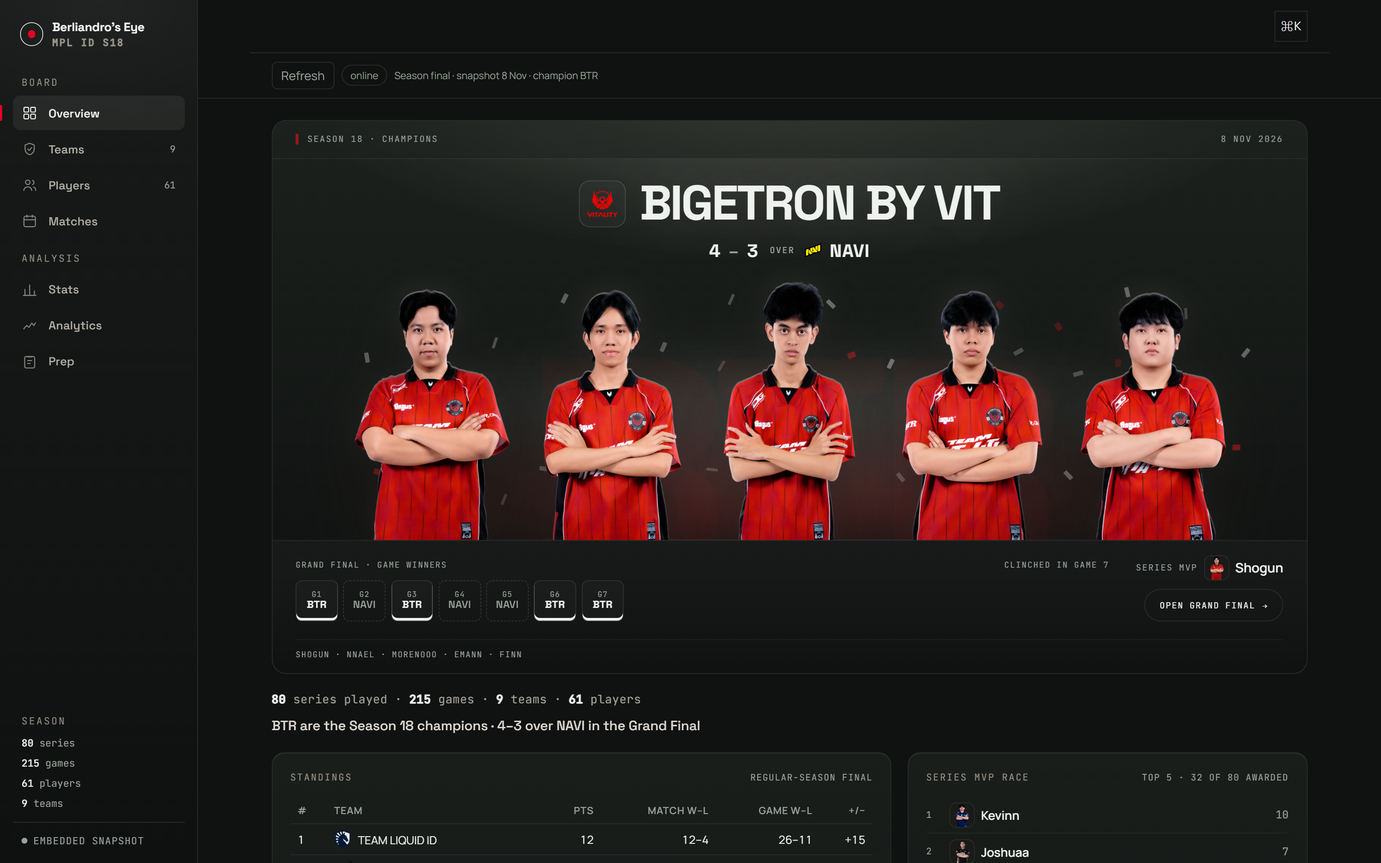
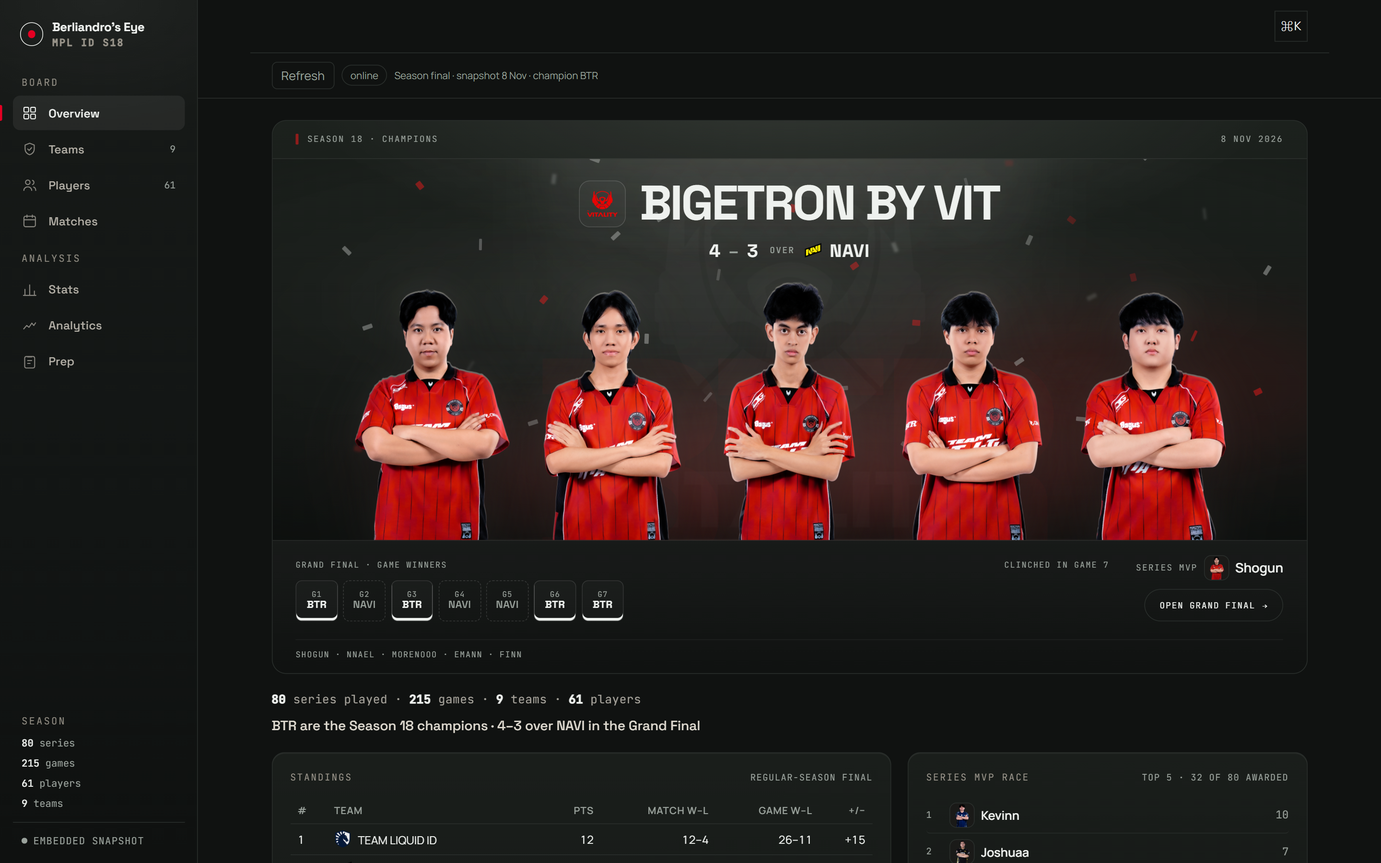
feat: give the champion plate a breathing arena
- Layered stage behind the five champions: crest watermark, centre beam,
  drifting haze, club-coloured floor pool and paper in two depths.
- Ambient motion: 12s squad breath, 14s beam, 10s pool, 16s watermark,
  24s haze, 9-16s paper. It pauses when the plate leaves the viewport and
  stops under prefers-reduced-motion; no flashing, no marquee.
- Stills and the share card capture with reduced motion so the gallery and
  OG image stay deterministic.
- DESIGN.md records the ambient exception; README names the lit stage.

Changed region(s): [[0.4688, 0.28, 0.6875, 0.4044]]

diff --git a/mpl_id_s18_dark.html b/mpl_id_s18_dark.html
@@ -548,7 +548,7 @@ body.pview main{padding-top:22px}
 .cp-stage{position:relative;padding:24px 26px 0;display:flex;flex-direction:column;align-items:center;overflow:hidden}
 .cp-stage::before{content:"";position:absolute;left:-12%;right:-12%;top:-34%;height:130%;background:radial-gradient(58% 58% at 50% 0%,rgba(255,250,242,.20),rgba(255,250,242,.06) 44%,transparent 72%);filter:blur(28px);pointer-events:none;z-index:0}
 .cp-word{position:absolute;left:50%;bottom:-.12em;transform:translateX(-50%);font-family:var(--font-display);font-weight:700;font-size:clamp(150px,25vw,340px);line-height:.72;letter-spacing:-.055em;color:var(--cp-ghost);pointer-events:none;user-select:none;white-space:nowrap;z-index:0}
-.cp-id{position:relative;z-index:2;display:flex;flex-direction:column;align-items:center;gap:10px;text-align:center;min-width:0}
+.cp-id{position:relative;z-index:2;display:flex;flex-direction:column;align-items:center;gap:10px;text-align:center;min-width:0;animation:cp-reveal .8s cubic-bezier(.16,1,.3,1) .12s both}
 .cp-lockup{display:flex;align-items:center;justify-content:center;gap:15px;min-width:0;max-width:100%}
 .cp-crest{width:52px;height:52px;display:grid;place-items:center;border:1px solid rgba(255,255,255,.14);border-radius:12px;background:rgba(255,255,255,.028);flex:none}
 .cp-crest img{width:36px;height:36px;object-fit:contain}
@@ -563,28 +563,41 @@ body.pview main{padding-top:22px}
 .cp-opp{font-weight:700;color:var(--ink);letter-spacing:.02em}
 .cp-noscore{font-family:var(--font-mono);font-size:10px;letter-spacing:.1em;text-transform:uppercase;color:var(--muted)}
 .cp-lineup{position:relative;z-index:1;width:100%;margin-top:20px;display:flex;align-items:flex-end;justify-content:center;--ph:clamp(150px,19vw,286px)}
-.cp-atmos{position:absolute;inset:0;z-index:0;pointer-events:none;overflow:hidden}
-.cp-atmos::before{content:"";position:absolute;left:4%;right:4%;top:18%;height:58%;background:radial-gradient(ellipse at 50% 50%,rgba(255,246,236,.10),transparent 68%);filter:blur(24px)}
-.cp-atmos::after{content:"";position:absolute;left:4%;right:4%;top:24%;height:52%;background:radial-gradient(ellipse at 50% 50%,rgba(255,246,236,.10),transparent 68%);filter:blur(24px)}
-.cp-pool{position:absolute;left:4%;right:4%;bottom:0;height:42%;border-radius:50%;filter:blur(30px);background:radial-gradient(ellipse at 50% 40%,rgba(255,246,236,.16),transparent 58%),radial-gradient(ellipse at 50% 62%,var(--cp-glow),transparent 74%)}
+.cp-atmos{position:absolute;inset:0;z-index:0;pointer-events:none;overflow:hidden;animation:cp-bloom 1.7s ease-out .05s both}
+.cp-atmos::before{content:"";position:absolute;left:2%;right:2%;top:6%;height:66%;background:radial-gradient(ellipse at 50% 48%,rgba(255,246,236,.09),transparent 68%);filter:blur(26px)}
+.cp-atmos::after{content:"";position:absolute;left:26%;right:26%;top:-12%;height:92%;background:linear-gradient(180deg,rgba(255,249,242,.10),rgba(255,249,242,.03) 48%,transparent 78%);filter:blur(30px);opacity:.8;animation:cp-beam 14s ease-in-out infinite}
+.cp-watermark{position:absolute;left:50%;top:52%;width:min(42%,480px);opacity:.075;transform:translate(-50%,-50%);filter:grayscale(1) brightness(1.8);animation:cp-crest 16s ease-in-out infinite;will-change:transform,opacity}
+.cp-watermark img{display:block;width:100%;height:auto;object-fit:contain}
+.cp-haze{position:absolute;inset:-12%;background:radial-gradient(40% 36% at 28% 40%,rgba(255,248,238,.06),transparent 70%),radial-gradient(40% 34% at 74% 58%,var(--cp-glow),transparent 72%);filter:blur(30px);opacity:.55;animation:cp-drift 24s ease-in-out infinite alternate;will-change:transform}
+.cp-pool{position:absolute;left:4%;right:4%;bottom:0;height:42%;border-radius:50%;opacity:.9;filter:blur(30px);background:radial-gradient(ellipse at 50% 40%,rgba(255,246,236,.16),transparent 58%),radial-gradient(ellipse at 50% 62%,var(--cp-glow),transparent 74%);animation:cp-pool 10s ease-in-out infinite;will-change:transform,opacity}
 .cp-confetti{position:absolute;inset:0}
 .cp-confetti i{position:absolute;left:var(--x);top:var(--y);width:4px;height:9px;border-radius:1px;background:rgba(238,241,238,.68);opacity:var(--o);transform:rotate(var(--r));animation:cp-fall var(--t) linear infinite;animation-delay:var(--d)}
 .cp-confetti i:nth-child(3n){width:5px;height:7px;background:var(--cp-spark)}
 .cp-confetti i:nth-child(4n){width:2px;height:11px;background:rgba(255,255,255,.36)}
+.cp-confetti i:nth-child(5n){filter:blur(1.3px);opacity:calc(var(--o)*.55);animation-duration:calc(var(--t)*1.45)}
 .cp-confetti i:nth-child(9n){width:2px;height:18px;background:var(--cp-spark)}
+.cp-vignette{position:absolute;inset:0;background:radial-gradient(120% 88% at 50% 42%,transparent 52%,rgba(4,6,5,.52) 100%)}
 @media(min-width:1400px){.cp-confetti i{width:5px;height:11px}.cp-confetti i:nth-child(3n){width:6px;height:9px}.cp-confetti i:nth-child(4n){width:3px;height:13px}}
 @keyframes cp-fall{from{transform:translateY(-12px) rotate(var(--r))}to{transform:translateY(30px) rotate(calc(var(--r) + 60deg))}}
+@keyframes cp-bloom{from{opacity:0}to{opacity:1}}
+@keyframes cp-beam{0%,100%{opacity:.65}50%{opacity:1}}
+@keyframes cp-crest{0%,100%{opacity:.07;transform:translate(-50%,-50%) scale(1)}50%{opacity:.10;transform:translate(-50%,-50%) scale(1.025)}}
+@keyframes cp-drift{0%{transform:translate3d(-1.6%,0,0) scale(1)}100%{transform:translate3d(1.6%,-1%,0) scale(1.04)}}
+@keyframes cp-pool{0%,100%{opacity:.82;transform:scale(1)}50%{opacity:1;transform:scale(1.035)}}
+@keyframes cp-breathe{0%,100%{transform:translate3d(0,0,0) scale(1)}50%{transform:translate3d(0,-4px,0) scale(1.01)}}
+@keyframes cp-rise{from{opacity:0;transform:translate3d(0,14px,0) scale(.99)}to{opacity:1;transform:none}}
+@keyframes cp-reveal{from{opacity:0;transform:translate3d(0,8px,0)}to{opacity:1;transform:none}}
 .cp-row{display:flex;align-items:flex-end;justify-content:center;justify-content:safe center;width:100%;max-width:100%}
-.cp-row--line{position:relative;z-index:1;gap:0}
+.cp-row--line{position:relative;z-index:1;gap:0;transform-origin:50% 100%;animation:cp-breathe 12s ease-in-out infinite}
 .cp-row--line::after{content:"";position:absolute;left:4%;right:4%;bottom:-1px;height:1px;background:linear-gradient(90deg,transparent,rgba(255,244,230,.30),transparent);filter:blur(1px)}
 .cp-fig{position:relative;margin:0;flex:none;display:grid;place-items:end center}
 .cp-fig img{display:block;width:100%;height:100%;object-fit:contain;filter:brightness(1.05) saturate(1.03) drop-shadow(0 -1px 0 rgba(255,248,240,.34)) drop-shadow(0 22px 34px rgba(0,0,0,.55)) drop-shadow(0 0 16px rgba(255,244,230,.10))}
-.cp-fig--line{height:var(--ph);width:var(--ph);z-index:calc(var(--i) + 1)}
+.cp-fig--line{height:var(--ph);width:var(--ph);z-index:calc(var(--i) + 1);transform-origin:50% 100%;animation:cp-rise .9s cubic-bezier(.16,1,.3,1) both;animation-delay:calc(var(--i)*70ms)}
 .cp-fig--line + .cp-fig--line{margin-left:calc(var(--ph)*-.30)}
 .cp-mono{position:relative;display:flex;align-items:flex-start;justify-content:center;width:100%;height:100%;padding-top:calc(var(--ph)*.12)}
 .cp-mono b{font-family:var(--font-display);font-weight:700;font-size:calc(var(--ph)*.17);letter-spacing:-.01em;color:rgba(238,241,238,.24);line-height:1}
 .cp-mono em{position:absolute;left:0;right:0;bottom:calc(var(--ph)*.05);padding:0 6px;font-style:normal;font-family:var(--font-mono);font-size:8.5px;letter-spacing:.1em;text-transform:uppercase;color:rgba(154,162,156,.7);white-space:nowrap;overflow:hidden;text-overflow:ellipsis}
-.cp-band{position:relative;z-index:3;display:grid;grid-template-columns:1fr auto;align-items:end;gap:14px 30px;padding:16px 26px 13px;border-top:1px solid rgba(255,255,255,.09);background:linear-gradient(180deg,rgba(255,255,255,.03),rgba(255,255,255,.012))}
+.cp-band{position:relative;z-index:3;display:grid;grid-template-columns:1fr auto;align-items:end;gap:14px 30px;padding:16px 26px 13px;border-top:1px solid rgba(255,255,255,.09);background:linear-gradient(180deg,rgba(255,255,255,.03),rgba(255,255,255,.012));animation:cp-reveal .9s cubic-bezier(.16,1,.3,1) .32s both}
 .cp-trace-h{display:flex;justify-content:space-between;align-items:baseline;gap:16px;font-family:var(--font-mono);font-size:9px;letter-spacing:.12em;text-transform:uppercase;color:var(--muted);margin-bottom:10px}
 .cp-games{display:flex;gap:6px;margin:0;padding:0;list-style:none;flex-wrap:wrap}
 .cp-g{width:47px;height:46px;display:flex;flex-direction:column;align-items:center;justify-content:center;gap:1px;border:1px solid rgba(255,255,255,.11);border-radius:7px;background:rgba(255,255,255,.022)}
@@ -613,6 +626,8 @@ body.pview main{padding-top:22px}
   .cp-top{padding:11px 16px}
   .cp-stage{padding:20px 16px 0}
   .cp-lineup{--ph:clamp(118px,26vw,200px);margin-top:16px}
+  .cp-watermark{width:58%;opacity:.06}
+  .cp-haze{filter:blur(20px)}
   .cp-row--line .cp-fig--line + .cp-fig--line{margin-left:calc(var(--ph)*-.34)}
   .cp-lineup--many .cp-row--line{overflow-x:auto;scrollbar-width:none}
   .cp-lineup--many .cp-row--line::-webkit-scrollbar{display:none}
@@ -634,11 +649,18 @@ body.pview main{padding-top:22px}
   .cp-g{width:42px;height:42px}
   .cp-line{font-size:14px;gap:7px}
 }
-@media(prefers-reduced-motion:reduce){.cp-confetti i{animation:none}}
+.cp:not(.cp-visible) *{animation-play-state:paused!important}
+.cp:not(.cp-visible) .cp-atmos::after{animation-play-state:paused}
+@media(prefers-reduced-motion:reduce){
+  .cp-atmos,.cp-row--line,.cp-fig--line,.cp-id,.cp-band,.cp-watermark,.cp-haze,.cp-pool,.cp-confetti i{animation:none!important}
+  .cp-atmos::after{animation:none!important;opacity:.8}
+}
 @media print{
   .cp{background:#fff!important;border-color:#bbb!important;color:#000!important;break-inside:avoid;page-break-inside:avoid}
   .cp-word{display:none!important}
   .cp-atmos{display:none!important}
+  .cp-stage::before{display:none!important}
+  .cp-row--line,.cp-fig--line,.cp-id,.cp-band{animation:none!important;opacity:1!important;transform:none!important}
   .cp-top{border-color:#bbb!important;color:#333!important}
   .cp-tag i{background:#000!important}
   .cp-name,.cp-name a,.cp-line b,.cp-opp,.cp-gr{color:#000!important}
@@ -1716,6 +1738,7 @@ const prepPrintEl=document.getElementById('prepPrint');if(prepPrintEl)prepPrintE
 const prepCsvEl=document.getElementById('prepCsv');if(prepCsvEl)prepCsvEl.onclick=()=>{if(!PREP)return;const rows=[['section','name','games','value1','value2','value3']],o=PREP.opp;rows.push(['team',o.team,o.games,(o.winRate*100).toFixed(1),Math.round(o.rating),Math.round(o.sos)]);PREP.oppBans.forEach(b=>rows.push(['ban',b.hero,b.n,(b.presence*100).toFixed(1),(b.wr*100).toFixed(1),b.score.toFixed(3)]));PREP.oppPlayers.forEach(p=>rows.push(['player',p.player,p.games,p.kda.toFixed(2),p.impact.toFixed(1),p.close.n?(p.close.winRate*100).toFixed(1):'']));const csv='\ufeff'+rows.map(r=>r.map(x=>'"'+String(x).replace(/"/g,'""')+'"').join(',')).join('\n');const blob=new Blob([csv],{type:'text/csv;charset=utf-8'}),a=document.createElement('a');a.href=URL.createObjectURL(blob);a.download='prep_'+o.team+'.csv';a.click();setTimeout(()=>URL.revokeObjectURL(a.href),1000);};
 const prepLinkEl=document.getElementById('prepLink');if(prepLinkEl)prepLinkEl.onclick=()=>{if(!PREP)return;const url=location.href.split('#')[0]+'#view=prep&opp='+encodeURIComponent(PREP.opp.team)+(PREP.my?'&team='+encodeURIComponent(PREP.my.team):'');if(navigator.clipboard&&navigator.clipboard.writeText)navigator.clipboard.writeText(url).then(()=>{prepLinkEl.textContent='Copied';setTimeout(()=>{prepLinkEl.textContent='Copy link';},1200);}).catch(()=>prompt('Copy this link',url));else prompt('Copy this link',url);};
 syncUrl();
+wireCpHero();
 board.querySelectorAll('[data-ts]').forEach(b=>b.onclick=()=>{const [t,k]=b.dataset.ts.split(':');const str=k==='hero'||k==='player'||k==='team'||k==='match'||k==='mvp'||k==='date';if(S.tsort.t===t&&S.tsort.k===k)S.tsort.d*=-1;else S.tsort={t,k,d:str?1:-1};render();});
 function viewCount(){
 if(S.view==='overview')return '';
@@ -1984,6 +2007,7 @@ function champPlate(sf){
   const ghost=accent?(accent.ghost||accent.tint||accent.soft):'rgba(238,241,238,.05)';
   const glow=cpRGBA(accent&&accent.hex,.28), spark=cpRGBA(accent&&accent.hex,.70);
   const roster=teamRoster(meta.code);
+  const crest=TICON(meta.code);
   const fig=(p,i)=>`<figure class="cp-fig cp-fig--line" style="--i:${i}" role="img" aria-label="${esc(p.player)}${p.lane?', '+esc(p.lane):''}">`
     +(PICON(p.player)?`<img src="${esc(PICON(p.player))}" alt="" loading="lazy" decoding="async" ${IMG_HIDE}>`
       :`<span class="cp-mono" aria-hidden="true"><b>${cpInitials(p.player)}</b><em>${esc(p.player)}</em></span>`)+`</figure>`;
@@ -1993,10 +2017,16 @@ function champPlate(sf){
     const o=(.34+((i*13)%38)/100).toFixed(2), t=9+((i*7)%8), d=-((i*11)%14);
     return `<i style="--x:${x}%;--y:${y}%;--r:${r}deg;--o:${o};--t:${t}s;--d:${d}s"></i>`;
   }).join('');
-  const lineup=`<div class="cp-lineup${roster.length>6?' cp-lineup--many':''}">
-<div class="cp-atmos" aria-hidden="true">
+  /* The arena around the squad: a crest watermark, one bowl line, drifting
+     haze, a slow light pass and the club-coloured floor. All of it is quiet
+     enough to sit behind the five men and the receipt. */
+  const atmosphere=`<div class="cp-atmos" aria-hidden="true">
+${crest?`<span class="cp-watermark"><img src="${esc(crest)}" alt="" loading="lazy" ${IMG_HIDE}></span>`:''}
+<span class="cp-haze"></span>
 <span class="cp-pool"></span><span class="cp-confetti">${confetti}</span>
-</div>
+<span class="cp-vignette"></span>
+</div>`;
+  const lineup=`<div class="cp-lineup${roster.length>6?' cp-lineup--many':''}">
 <div class="cp-row cp-row--line">${roster.map(fig).join('')}</div>
 </div>`;
   const scoreHTML=sf.scoreKnown
@@ -2012,12 +2042,13 @@ function champPlate(sf){
     ? `<button class="cp-go" data-m="${esc(sf.detailId)}">Open Grand Final <span aria-hidden="true">→</span></button>`
     : `<button class="cp-go" data-gopo>Open bracket <span aria-hidden="true">→</span></button>`;
   const mvp=sf.mvp?MVPB(sf.mvp,'Series MVP',''):'<span class="cp-mvp">Series MVP not recorded</span>';
-  return `<section class="cp" style="--cp-edge:${esc(edge)};--cp-ghost:${esc(ghost)};--cp-glow:${esc(glow)};--cp-spark:${esc(spark)}" aria-labelledby="cpName">
+  return `<section class="cp cp-visible" style="--cp-edge:${esc(edge)};--cp-ghost:${esc(ghost)};--cp-glow:${esc(glow)};--cp-spark:${esc(spark)}" aria-labelledby="cpName">
 <div class="cp-top"><span class="cp-tag"><i aria-hidden="true"></i>Season 18 · Champions</span><span>${esc(cpDayOf(sf.date)||'Season complete')}</span></div>
 <div class="cp-stage">
 <span class="cp-word" aria-hidden="true">${esc(meta.code)}</span>
+${atmosphere}
 <div class="cp-id">
-<div class="cp-lockup"><span class="cp-crest" aria-hidden="true">${TICON(meta.code)?`<img src="${esc(TICON(meta.code))}" alt="" loading="lazy" ${IMG_HIDE}>`:''}</span>
+<div class="cp-lockup"><span class="cp-crest" aria-hidden="true">${crest?`<img src="${esc(crest)}" alt="" loading="lazy" ${IMG_HIDE}>`:''}</span>
 <h2 class="cp-name" id="cpName"><a href="#view=teams&team=${encodeURIComponent(meta.slug)}">${esc(meta.name)}</a></h2></div>
 <p class="cp-line">${scoreHTML}</p>
 </div>
@@ -3455,6 +3486,19 @@ const board=document.getElementById('board');
 if(board&&window.ResizeObserver&&!wireBracket._ro){wireBracket._ro=new ResizeObserver(()=>{wireBracket();});wireBracket._ro.observe(board);}
 if(!brkResizeWired){brkResizeWired=true;let t=null;
 window.addEventListener('resize',()=>{clearTimeout(t);t=setTimeout(()=>wireBracket(),150);});}}
+var cpIO=null;
+/* The championship plate is the one ambient surface. It breathes only while
+   it is on screen; the entrance and the loops pause when it leaves the viewport. */
+function wireCpHero(){
+  const els=[...document.querySelectorAll('.cp')];
+  if(!els.length)return;
+  if(!('IntersectionObserver' in window)){els.forEach(el=>el.classList.add('cp-visible'));return;}
+  if(!cpIO)cpIO=new IntersectionObserver(entries=>{
+    entries.forEach(e=>e.target.classList.toggle('cp-visible',e.isIntersecting));
+  },{threshold:.08});
+  cpIO.disconnect();
+  els.forEach(el=>cpIO.observe(el));
+}
 function gameMvp(pa,pb,wcode){const pl=[...(pa||[]),...(pb||[])];const pool=wcode?pl.filter(r=>r.team===wcode):pl;const cands=pool.length?pool:pl;let best=null,bk=null;
 cands.forEach(r=>{const k=r.kda??(((r.kills??r.kill??0)+(r.assists??r.assist??0))/Math.max(1,(r.deaths??r.death??0)));const key=[k,(r.kills??r.kill??0),(r.gold??0)];
 if(!best||key[0]>bk[0]||(key[0]===bk[0]&&(key[1]>bk[1]||(key[1]===bk[1]&&key[2]>bk[2])))){best=r;bk=key;}});return best;}

diff --git a/tools/templates/style.css b/tools/templates/style.css
@@ -523,7 +523,7 @@ body.pview main{padding-top:22px}
 .cp-stage{position:relative;padding:24px 26px 0;display:flex;flex-direction:column;align-items:center;overflow:hidden}
 .cp-stage::before{content:"";position:absolute;left:-12%;right:-12%;top:-34%;height:130%;background:radial-gradient(58% 58% at 50% 0%,rgba(255,250,242,.20),rgba(255,250,242,.06) 44%,transparent 72%);filter:blur(28px);pointer-events:none;z-index:0}
 .cp-word{position:absolute;left:50%;bottom:-.12em;transform:translateX(-50%);font-family:var(--font-display);font-weight:700;font-size:clamp(150px,25vw,340px);line-height:.72;letter-spacing:-.055em;color:var(--cp-ghost);pointer-events:none;user-select:none;white-space:nowrap;z-index:0}
-.cp-id{position:relative;z-index:2;display:flex;flex-direction:column;align-items:center;gap:10px;text-align:center;min-width:0}
+.cp-id{position:relative;z-index:2;display:flex;flex-direction:column;align-items:center;gap:10px;text-align:center;min-width:0;animation:cp-reveal .8s cubic-bezier(.16,1,.3,1) .12s both}
 .cp-lockup{display:flex;align-items:center;justify-content:center;gap:15px;min-width:0;max-width:100%}
 .cp-crest{width:52px;height:52px;display:grid;place-items:center;border:1px solid rgba(255,255,255,.14);border-radius:12px;background:rgba(255,255,255,.028);flex:none}
 .cp-crest img{width:36px;height:36px;object-fit:contain}
@@ -538,28 +538,41 @@ body.pview main{padding-top:22px}
 .cp-opp{font-weight:700;color:var(--ink);letter-spacing:.02em}
 .cp-noscore{font-family:var(--font-mono);font-size:10px;letter-spacing:.1em;text-transform:uppercase;color:var(--muted)}
 .cp-lineup{position:relative;z-index:1;width:100%;margin-top:20px;display:flex;align-items:flex-end;justify-content:center;--ph:clamp(150px,19vw,286px)}
-.cp-atmos{position:absolute;inset:0;z-index:0;pointer-events:none;overflow:hidden}
-.cp-atmos::before{content:"";position:absolute;left:4%;right:4%;top:18%;height:58%;background:radial-gradient(ellipse at 50% 50%,rgba(255,246,236,.10),transparent 68%);filter:blur(24px)}
-.cp-atmos::after{content:"";position:absolute;left:4%;right:4%;top:24%;height:52%;background:radial-gradient(ellipse at 50% 50%,rgba(255,246,236,.10),transparent 68%);filter:blur(24px)}
-.cp-pool{position:absolute;left:4%;right:4%;bottom:0;height:42%;border-radius:50%;filter:blur(30px);background:radial-gradient(ellipse at 50% 40%,rgba(255,246,236,.16),transparent 58%),radial-gradient(ellipse at 50% 62%,var(--cp-glow),transparent 74%)}
+.cp-atmos{position:absolute;inset:0;z-index:0;pointer-events:none;overflow:hidden;animation:cp-bloom 1.7s ease-out .05s both}
+.cp-atmos::before{content:"";position:absolute;left:2%;right:2%;top:6%;height:66%;background:radial-gradient(ellipse at 50% 48%,rgba(255,246,236,.09),transparent 68%);filter:blur(26px)}
+.cp-atmos::after{content:"";position:absolute;left:26%;right:26%;top:-12%;height:92%;background:linear-gradient(180deg,rgba(255,249,242,.10),rgba(255,249,242,.03) 48%,transparent 78%);filter:blur(30px);opacity:.8;animation:cp-beam 14s ease-in-out infinite}
+.cp-watermark{position:absolute;left:50%;top:52%;width:min(42%,480px);opacity:.075;transform:translate(-50%,-50%);filter:grayscale(1) brightness(1.8);animation:cp-crest 16s ease-in-out infinite;will-change:transform,opacity}
+.cp-watermark img{display:block;width:100%;height:auto;object-fit:contain}
+.cp-haze{position:absolute;inset:-12%;background:radial-gradient(40% 36% at 28% 40%,rgba(255,248,238,.06),transparent 70%),radial-gradient(40% 34% at 74% 58%,var(--cp-glow),transparent 72%);filter:blur(30px);opacity:.55;animation:cp-drift 24s ease-in-out infinite alternate;will-change:transform}
+.cp-pool{position:absolute;left:4%;right:4%;bottom:0;height:42%;border-radius:50%;opacity:.9;filter:blur(30px);background:radial-gradient(ellipse at 50% 40%,rgba(255,246,236,.16),transparent 58%),radial-gradient(ellipse at 50% 62%,var(--cp-glow),transparent 74%);animation:cp-pool 10s ease-in-out infinite;will-change:transform,opacity}
 .cp-confetti{position:absolute;inset:0}
 .cp-confetti i{position:absolute;left:var(--x);top:var(--y);width:4px;height:9px;border-radius:1px;background:rgba(238,241,238,.68);opacity:var(--o);transform:rotate(var(--r));animation:cp-fall var(--t) linear infinite;animation-delay:var(--d)}
 .cp-confetti i:nth-child(3n){width:5px;height:7px;background:var(--cp-spark)}
 .cp-confetti i:nth-child(4n){width:2px;height:11px;background:rgba(255,255,255,.36)}
+.cp-confetti i:nth-child(5n){filter:blur(1.3px);opacity:calc(var(--o)*.55);animation-duration:calc(var(--t)*1.45)}
 .cp-confetti i:nth-child(9n){width:2px;height:18px;background:var(--cp-spark)}
+.cp-vignette{position:absolute;inset:0;background:radial-gradient(120% 88% at 50% 42%,transparent 52%,rgba(4,6,5,.52) 100%)}
 @media(min-width:1400px){.cp-confetti i{width:5px;height:11px}.cp-confetti i:nth-child(3n){width:6px;height:9px}.cp-confetti i:nth-child(4n){width:3px;height:13px}}
 @keyframes cp-fall{from{transform:translateY(-12px) rotate(var(--r))}to{transform:translateY(30px) rotate(calc(var(--r) + 60deg))}}
+@keyframes cp-bloom{from{opacity:0}to{opacity:1}}
+@keyframes cp-beam{0%,100%{opacity:.65}50%{opacity:1}}
+@keyframes cp-crest{0%,100%{opacity:.07;transform:translate(-50%,-50%) scale(1)}50%{opacity:.10;transform:translate(-50%,-50%) scale(1.025)}}
+@keyframes cp-drift{0%{transform:translate3d(-1.6%,0,0) scale(1)}100%{transform:translate3d(1.6%,-1%,0) scale(1.04)}}
+@keyframes cp-pool{0%,100%{opacity:.82;transform:scale(1)}50%{opacity:1;transform:scale(1.035)}}
+@keyframes cp-breathe{0%,100%{transform:translate3d(0,0,0) scale(1)}50%{transform:translate3d(0,-4px,0) scale(1.01)}}
+@keyframes cp-rise{from{opacity:0;transform:translate3d(0,14px,0) scale(.99)}to{opacity:1;transform:none}}
+@keyframes cp-reveal{from{opacity:0;transform:translate3d(0,8px,0)}to{opacity:1;transform:none}}
 .cp-row{display:flex;align-items:flex-end;justify-content:center;justify-content:safe center;width:100%;max-width:100%}
-.cp-row--line{position:relative;z-index:1;gap:0}
+.cp-row--line{position:relative;z-index:1;gap:0;transform-origin:50% 100%;animation:cp-breathe 12s ease-in-out infinite}
 .cp-row--line::after{content:"";position:absolute;left:4%;right:4%;bottom:-1px;height:1px;background:linear-gradient(90deg,transparent,rgba(255,244,230,.30),transparent);filter:blur(1px)}
 .cp-fig{position:relative;margin:0;flex:none;display:grid;place-items:end center}
 .cp-fig img{display:block;width:100%;height:100%;object-fit:contain;filter:brightness(1.05) saturate(1.03) drop-shadow(0 -1px 0 rgba(255,248,240,.34)) drop-shadow(0 22px 34px rgba(0,0,0,.55)) drop-shadow(0 0 16px rgba(255,244,230,.10))}
-.cp-fig--line{height:var(--ph);width:var(--ph);z-index:calc(var(--i) + 1)}
+.cp-fig--line{height:var(--ph);width:var(--ph);z-index:calc(var(--i) + 1);transform-origin:50% 100%;animation:cp-rise .9s cubic-bezier(.16,1,.3,1) both;animation-delay:calc(var(--i)*70ms)}
 .cp-fig--line + .cp-fig--line{margin-left:calc(var(--ph)*-.30)}
 .cp-mono{position:relative;display:flex;align-items:flex-start;justify-content:center;width:100%;height:100%;padding-top:calc(var(--ph)*.12)}
 .cp-mono b{font-family:var(--font-display);font-weight:700;font-size:calc(var(--ph)*.17);letter-spacing:-.01em;color:rgba(238,241,238,.24);line-height:1}
 .cp-mono em{position:absolute;left:0;right:0;bottom:calc(var(--ph)*.05);padding:0 6px;font-style:normal;font-family:var(--font-mono);font-size:8.5px;letter-spacing:.1em;text-transform:uppercase;color:rgba(154,162,156,.7);white-space:nowrap;overflow:hidden;text-overflow:ellipsis}
-.cp-band{position:relative;z-index:3;display:grid;grid-template-columns:1fr auto;align-items:end;gap:14px 30px;padding:16px 26px 13px;border-top:1px solid rgba(255,255,255,.09);background:linear-gradient(180deg,rgba(255,255,255,.03),rgba(255,255,255,.012))}
+.cp-band{position:relative;z-index:3;display:grid;grid-template-columns:1fr auto;align-items:end;gap:14px 30px;padding:16px 26px 13px;border-top:1px solid rgba(255,255,255,.09);background:linear-gradient(180deg,rgba(255,255,255,.03),rgba(255,255,255,.012));animation:cp-reveal .9s cubic-bezier(.16,1,.3,1) .32s both}
 .cp-trace-h{display:flex;justify-content:space-between;align-items:baseline;gap:16px;font-family:var(--font-mono);font-size:9px;letter-spacing:.12em;text-transform:uppercase;color:var(--muted);margin-bottom:10px}
 .cp-games{display:flex;gap:6px;margin:0;padding:0;list-style:none;flex-wrap:wrap}
 .cp-g{width:47px;height:46px;display:flex;flex-direction:column;align-items:center;justify-content:center;gap:1px;border:1px solid rgba(255,255,255,.11);border-radius:7px;background:rgba(255,255,255,.022)}
@@ -588,6 +601,8 @@ body.pview main{padding-top:22px}
   .cp-top{padding:11px 16px}
   .cp-stage{padding:20px 16px 0}
   .cp-lineup{--ph:clamp(118px,26vw,200px);margin-top:16px}
+  .cp-watermark{width:58%;opacity:.06}
+  .cp-haze{filter:blur(20px)}
   .cp-row--line .cp-fig--line + .cp-fig--line{margin-left:calc(var(--ph)*-.34)}
   .cp-lineup--many .cp-row--line{overflow-x:auto;scrollbar-width:none}
   .cp-lineup--many .cp-row--line::-webkit-scrollbar{display:none}
@@ -609,11 +624,18 @@ body.pview main{padding-top:22px}
   .cp-g{width:42px;height:42px}
   .cp-line{font-size:14px;gap:7px}
 }
-@media(prefers-reduced-motion:reduce){.cp-confetti i{animation:none}}
+.cp:not(.cp-visible) *{animation-play-state:paused!important}
+.cp:not(.cp-visible) .cp-atmos::after{animation-play-state:paused}
+@media(prefers-reduced-motion:reduce){
+  .cp-atmos,.cp-row--line,.cp-fig--line,.cp-id,.cp-band,.cp-watermark,.cp-haze,.cp-pool,.cp-confetti i{animation:none!important}
+  .cp-atmos::after{animation:none!important;opacity:.8}
+}
 @media print{
   .cp{background:#fff!important;border-color:#bbb!important;color:#000!important;break-inside:avoid;page-break-inside:avoid}
   .cp-word{display:none!important}
   .cp-atmos{display:none!important}
+  .cp-stage::before{display:none!important}
+  .cp-row--line,.cp-fig--line,.cp-id,.cp-band{animation:none!important;opacity:1!important;transform:none!important}
   .cp-top{border-color:#bbb!important;color:#333!important}
   .cp-tag i{background:#000!important}
   .cp-name,.cp-name a,.cp-line b,.cp-opp,.cp-gr{color:#000!important}

diff --git a/tools/templates/app.js b/tools/templates/app.js
@@ -522,6 +522,7 @@ const prepPrintEl=document.getElementById('prepPrint');if(prepPrintEl)prepPrintE
 const prepCsvEl=document.getElementById('prepCsv');if(prepCsvEl)prepCsvEl.onclick=()=>{if(!PREP)return;const rows=[['section','name','games','value1','value2','value3']],o=PREP.opp;rows.push(['team',o.team,o.games,(o.winRate*100).toFixed(1),Math.round(o.rating),Math.round(o.sos)]);PREP.oppBans.forEach(b=>rows.push(['ban',b.hero,b.n,(b.presence*100).toFixed(1),(b.wr*100).toFixed(1),b.score.toFixed(3)]));PREP.oppPlayers.forEach(p=>rows.push(['player',p.player,p.games,p.kda.toFixed(2),p.impact.toFixed(1),p.close.n?(p.close.winRate*100).toFixed(1):'']));const csv='\ufeff'+rows.map(r=>r.map(x=>'"'+String(x).replace(/"/g,'""')+'"').join(',')).join('\n');const blob=new Blob([csv],{type:'text/csv;charset=utf-8'}),a=document.createElement('a');a.href=URL.createObjectURL(blob);a.download='prep_'+o.team+'.csv';a.click();setTimeout(()=>URL.revokeObjectURL(a.href),1000);};
 const prepLinkEl=document.getElementById('prepLink');if(prepLinkEl)prepLinkEl.onclick=()=>{if(!PREP)return;const url=location.href.split('#')[0]+'#view=prep&opp='+encodeURIComponent(PREP.opp.team)+(PREP.my?'&team='+encodeURIComponent(PREP.my.team):'');if(navigator.clipboard&&navigator.clipboard.writeText)navigator.clipboard.writeText(url).then(()=>{prepLinkEl.textContent='Copied';setTimeout(()=>{prepLinkEl.textContent='Copy link';},1200);}).catch(()=>prompt('Copy this link',url));else prompt('Copy this link',url);};
 syncUrl();
+wireCpHero();
 board.querySelectorAll('[data-ts]').forEach(b=>b.onclick=()=>{const [t,k]=b.dataset.ts.split(':');const str=k==='hero'||k==='player'||k==='team'||k==='match'||k==='mvp'||k==='date';if(S.tsort.t===t&&S.tsort.k===k)S.tsort.d*=-1;else S.tsort={t,k,d:str?1:-1};render();});
 function viewCount(){
 if(S.view==='overview')return '';
@@ -790,6 +791,7 @@ function champPlate(sf){
   const ghost=accent?(accent.ghost||accent.tint||accent.soft):'rgba(238,241,238,.05)';
   const glow=cpRGBA(accent&&accent.hex,.28), spark=cpRGBA(accent&&accent.hex,.70);
   const roster=teamRoster(meta.code);
+  const crest=TICON(meta.code);
   const fig=(p,i)=>`<figure class="cp-fig cp-fig--line" style="--i:${i}" role="img" aria-label="${esc(p.player)}${p.lane?', '+esc(p.lane):''}">`
     +(PICON(p.player)?`<img src="${esc(PICON(p.player))}" alt="" loading="lazy" decoding="async" ${IMG_HIDE}>`
       :`<span class="cp-mono" aria-hidden="true"><b>${cpInitials(p.player)}</b><em>${esc(p.player)}</em></span>`)+`</figure>`;
@@ -799,10 +801,16 @@ function champPlate(sf){
     const o=(.34+((i*13)%38)/100).toFixed(2), t=9+((i*7)%8), d=-((i*11)%14);
     return `<i style="--x:${x}%;--y:${y}%;--r:${r}deg;--o:${o};--t:${t}s;--d:${d}s"></i>`;
   }).join('');
-  const lineup=`<div class="cp-lineup${roster.length>6?' cp-lineup--many':''}">
-<div class="cp-atmos" aria-hidden="true">
+  /* The arena around the squad: a crest watermark, one bowl line, drifting
+     haze, a slow light pass and the club-coloured floor. All of it is quiet
+     enough to sit behind the five men and the receipt. */
+  const atmosphere=`<div class="cp-atmos" aria-hidden="true">
+${crest?`<span class="cp-watermark"><img src="${esc(crest)}" alt="" loading="lazy" ${IMG_HIDE}></span>`:''}
+<span class="cp-haze"></span>
 <span class="cp-pool"></span><span class="cp-confetti">${confetti}</span>
-</div>
+<span class="cp-vignette"></span>
+</div>`;
+  const lineup=`<div class="cp-lineup${roster.length>6?' cp-lineup--many':''}">
 <div class="cp-row cp-row--line">${roster.map(fig).join('')}</div>
 </div>`;
   const scoreHTML=sf.scoreKnown
@@ -818,12 +826,13 @@ function champPlate(sf){
     ? `<button class="cp-go" data-m="${esc(sf.detailId)}">Open Grand Final <span aria-hidden="true">→</span></button>`
     : `<button class="cp-go" data-gopo>Open bracket <span aria-hidden="true">→</span></button>`;
   const mvp=sf.mvp?MVPB(sf.mvp,'Series MVP',''):'<span class="cp-mvp">Series MVP not recorded</span>';
-  return `<section class="cp" style="--cp-edge:${esc(edge)};--cp-ghost:${esc(ghost)};--cp-glow:${esc(glow)};--cp-spark:${esc(spark)}" aria-labelledby="cpName">
+  return `<section class="cp cp-visible" style="--cp-edge:${esc(edge)};--cp-ghost:${esc(ghost)};--cp-glow:${esc(glow)};--cp-spark:${esc(spark)}" aria-labelledby="cpName">
 <div class="cp-top"><span class="cp-tag"><i aria-hidden="true"></i>Season 18 · Champions</span><span>${esc(cpDayOf(sf.date)||'Season complete')}</span></div>
 <div class="cp-stage">
 <span class="cp-word" aria-hidden="true">${esc(meta.code)}</span>
+${atmosphere}
 <div class="cp-id">
-<div class="cp-lockup"><span class="cp-crest" aria-hidden="true">${TICON(meta.code)?`<img src="${esc(TICON(meta.code))}" alt="" loading="lazy" ${IMG_HIDE}>`:''}</span>
+<div class="cp-lockup"><span class="cp-crest" aria-hidden="true">${crest?`<img src="${esc(crest)}" alt="" loading="lazy" ${IMG_HIDE}>`:''}</span>
 <h2 class="cp-name" id="cpName"><a href="#view=teams&team=${encodeURIComponent(meta.slug)}">${esc(meta.name)}</a></h2></div>
 <p class="cp-line">${scoreHTML}</p>
 </div>
@@ -2261,6 +2270,19 @@ const board=document.getElementById('board');
 if(board&&window.ResizeObserver&&!wireBracket._ro){wireBracket._ro=new ResizeObserver(()=>{wireBracket();});wireBracket._ro.observe(board);}
 if(!brkResizeWired){brkResizeWired=true;let t=null;
 window.addEventListener('resize',()=>{clearTimeout(t);t=setTimeout(()=>wireBracket(),150);});}}
+var cpIO=null;
+/* The championship plate is the one ambient surface. It breathes only while
+   it is on screen; the entrance and the loops pause when it leaves the viewport. */
+function wireCpHero(){
+  const els=[...document.querySelectorAll('.cp')];
+  if(!els.length)return;
+  if(!('IntersectionObserver' in window)){els.forEach(el=>el.classList.add('cp-visible'));return;}
+  if(!cpIO)cpIO=new IntersectionObserver(entries=>{
+    entries.forEach(e=>e.target.classList.toggle('cp-visible',e.isIntersecting));
+  },{threshold:.08});
+  cpIO.disconnect();
+  els.forEach(el=>cpIO.observe(el));
+}
 function gameMvp(pa,pb,wcode){const pl=[...(pa||[]),...(pb||[])];const pool=wcode?pl.filter(r=>r.team===wcode):pl;const cands=pool.length?pool:pl;let best=null,bk=null;
 cands.forEach(r=>{const k=r.kda??(((r.kills??r.kill??0)+(r.assists??r.assist??0))/Math.max(1,(r.deaths??r.death??0)));const key=[k,(r.kills??r.kill??0),(r.gold??0)];
 if(!best||key[0]>bk[0]||(key[0]===bk[0]&&(key[1]>bk[1]||(key[1]===bk[1]&&key[2]>bk[2])))){best=r;bk=key;}});return best;}

diff --git a/tools/shots.py b/tools/shots.py
@@ -4,7 +4,9 @@
   website zoom:  125%  (body CSS zoom; combined content scale 1.875x)
   result:        high-resolution but zoomed-in, matching the reference photo
   readiness:     every shot waits for webfonts + ALL <img> complete
-                 (no fixed sleeps before capture) so photos/icons are loaded
+                 (no fixed sleeps before capture) so photos/icons are loaded;
+                 stills emulate prefers-reduced-motion, stopping the plate's
+                 ambient motion so the capture is deterministic
   tool:          headless system Chrome via Playwright (in-tool screenshots
                  cannot run here — no visible desktop window)
 Usage: python tools/shots.py [--zoom]
@@ -61,6 +63,9 @@ with sync_playwright() as pw:
                            args=['--no-sandbox', '--force-device-scale-factor=1'])
     ctx = b.new_context(viewport=VP, device_scale_factor=DSF)
     pg = ctx.new_page()
+    # Stills are captured with the plate's ambient motion stopped, so the
+    # gallery and the parity artifact are deterministic.
+    pg.emulate_media(reduced_motion='reduce')
     pg.goto(URL, wait_until='networkidle')
     if ZOOM:
         pg.evaluate('document.body.style.zoom = "125%"')

diff --git a/README.md b/README.md
@@ -52,10 +52,10 @@ A separate, auditable transcript/database layer lives in [`analysis/`](analysis/
 
 ## Features
 
-- **Overview** — the championship plate (whole roster, 4–3, game winners, series MVP, one click to
-  the scoreboard), a one-line season count, final standings that keep official Match W-L and Game
-  W-L separate and link to the club dossiers, the series-MVP race, and the last six results. Every
-  block routes somewhere; nothing on it is a dead end.
+- **Overview** — the championship plate on a lit, breathing stage (whole roster, 4–3, game
+  winners, series MVP, one click to the scoreboard), a one-line season count, final standings that
+  keep official Match W-L and Game W-L separate and link to the club dossiers, the series-MVP race,
+  and the last six results. Every block routes somewhere; nothing on it is a dead end.
 - **Teams** — a nine-club league board and nine season dossiers. The board opens on the model's
   **Rating** order with a **Standings** toggle and a **Δ** rank column when the two disagree; the
   dossier opens with a crest identity plate and a frosted seven-cell band (series, games,
